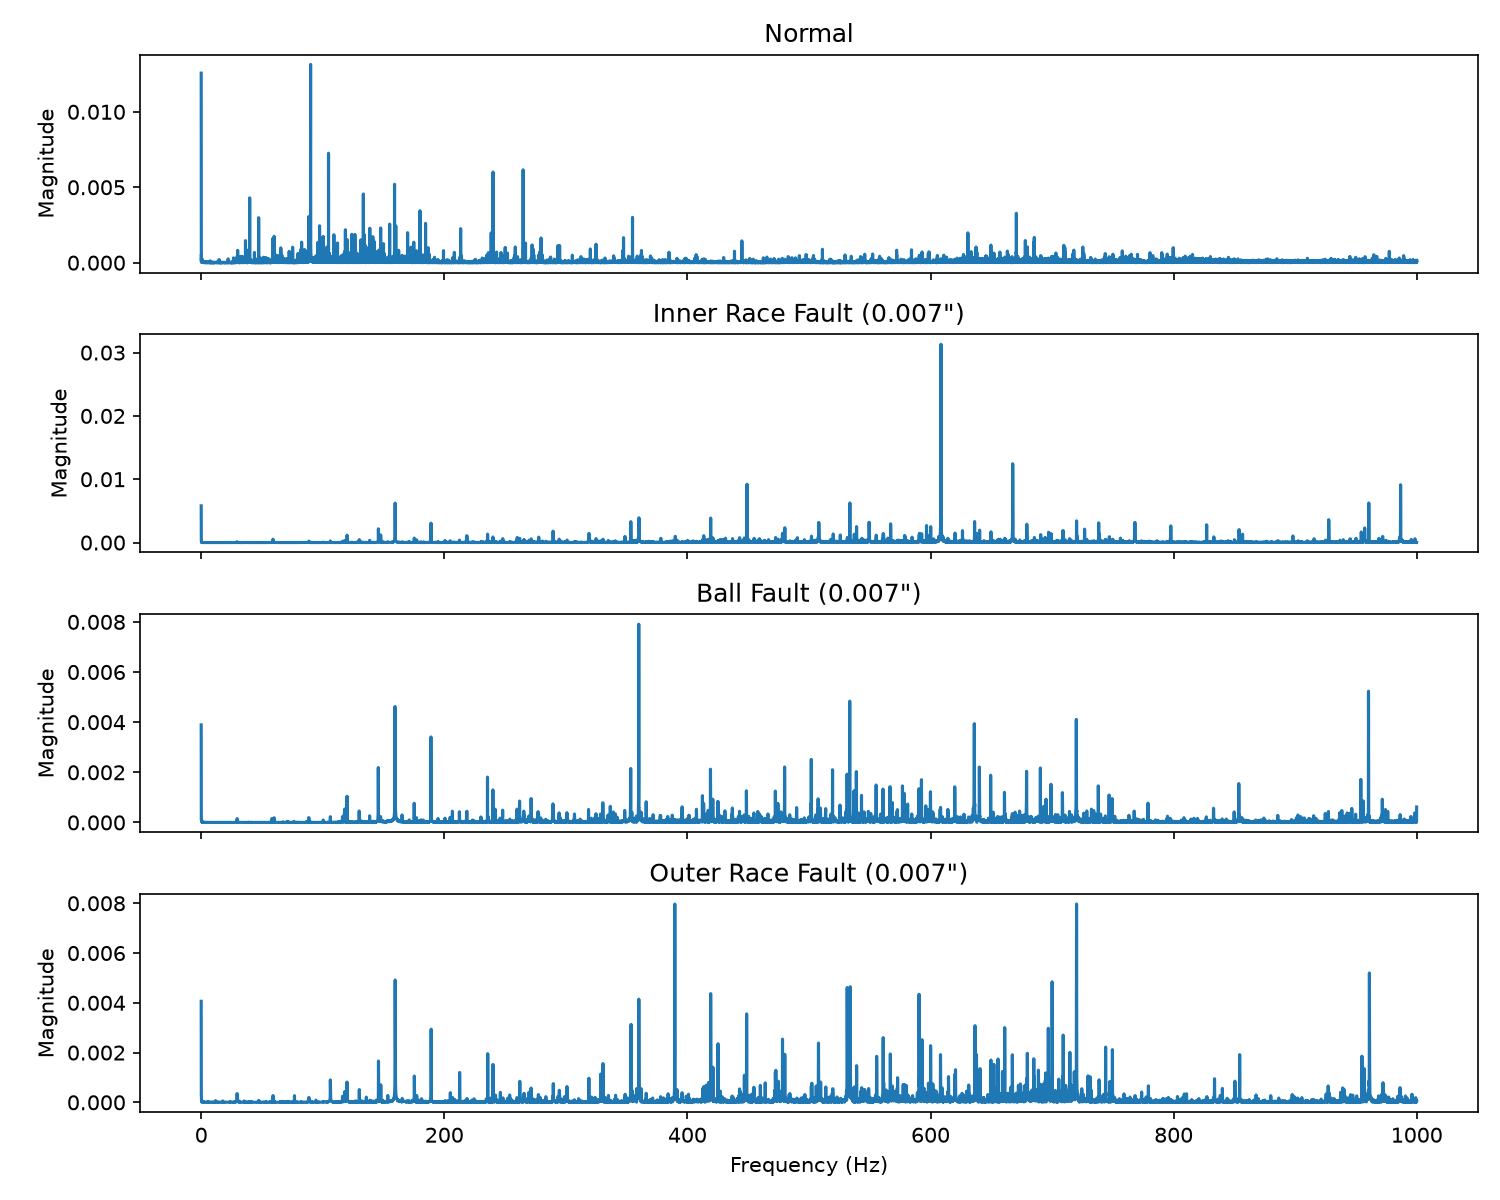
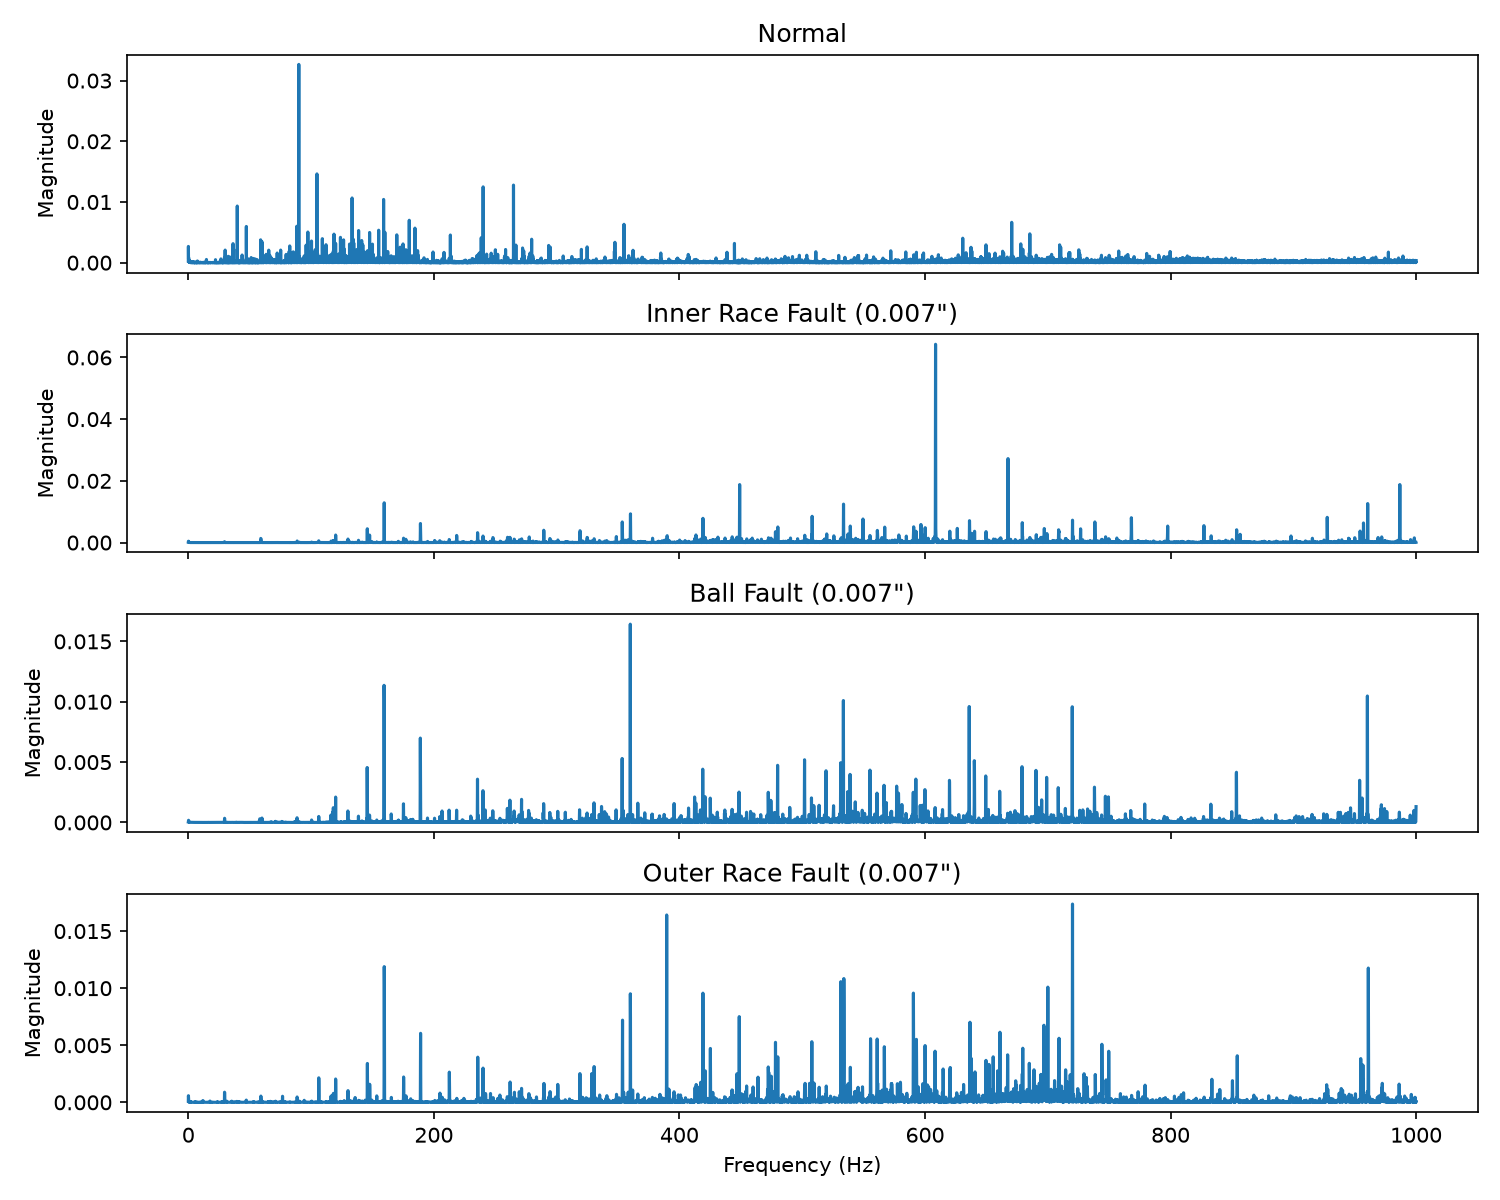
Improve FFT preprocessing and add tests

diff --git a/src/plot_fft.py b/src/plot_fft.py
@@ -1,8 +1,12 @@
+from pathlib import Path
+
 import numpy as np
 import matplotlib.pyplot as plt
-from data_loader import load_de_signal
+
+from .data_loader import load_de_signal
 
 SAMPLING_RATE = 12000  # Hz
+FIGURES_DIR = Path(__file__).resolve().parent.parent / "figures"
 
 FILES = {
     "Normal": "Normal_1hp.mat",
@@ -11,11 +15,37 @@ FILES = {
     "Outer Race Fault (0.007\")": "OR007_1hp.mat",
 }
 
-def compute_fft(signal, fs):
-    n = len(signal)
-    freqs = np.fft.rfftfreq(n, d=1/fs)
-    spectrum = np.abs(np.fft.rfft(signal)) / n
-    return freqs, spectrum
+def compute_fft(signal, sampling_rate):
+    """Return a one-sided, amplitude-corrected FFT spectrum."""
+    signal = np.asarray(signal, dtype=float)
+
+    if signal.ndim != 1 or signal.size < 2:
+        raise ValueError("signal must be one-dimensional with at least 2 samples")
+    if sampling_rate <= 0:
+        raise ValueError("sampling_rate must be positive")
+
+    number_of_samples = signal.size
+
+    # Remove the mean so it does not create a large peak at 0 Hz.
+    centered_signal = signal - np.mean(signal)
+
+    # Reduce spectral leakage when a frequency falls between FFT bins.
+    window = np.hanning(number_of_samples)
+    windowed_signal = centered_signal * window
+
+    frequencies = np.fft.rfftfreq(
+        number_of_samples,
+        d=1 / sampling_rate,
+    )
+    spectrum = np.abs(np.fft.rfft(windowed_signal)) / window.sum()
+
+    # Convert the positive-frequency half into a one-sided amplitude spectrum.
+    if number_of_samples % 2 == 0:
+        spectrum[1:-1] *= 2
+    else:
+        spectrum[1:] *= 2
+
+    return frequencies, spectrum
 
 def plot_ffts(max_freq=1000):
     fig, axes = plt.subplots(len(FILES), 1, figsize=(10, 8), sharex=True)
@@ -32,7 +62,8 @@ def plot_ffts(max_freq=1000):
     axes[-1].set_xlabel("Frequency (Hz)")
     plt.tight_layout()
 
-    output_path = "../figures/fft_comparison.png"
+    FIGURES_DIR.mkdir(parents=True, exist_ok=True)
+    output_path = FIGURES_DIR / "fft_comparison.png"
     plt.savefig(output_path, dpi=150)
     print(f"Saved plot to {output_path}")
     plt.show()

diff --git a/tests/test_fft.py b/tests/test_fft.py
@@ -1,0 +1,34 @@
+import unittest
+
+import numpy as np
+
+from src.plot_fft import compute_fft
+
+
+class TestFFT(unittest.TestCase):
+    def test_detects_known_sine_frequency_and_amplitude(self):
+        sampling_rate = 12000
+        expected_frequency = 160
+        time = np.arange(sampling_rate) / sampling_rate
+        signal = np.sin(2 * np.pi * expected_frequency * time)
+
+        frequencies, spectrum = compute_fft(signal, sampling_rate)
+        peak_index = np.argmax(spectrum)
+
+        self.assertAlmostEqual(
+            frequencies[peak_index],
+            expected_frequency,
+            places=2,
+        )
+        self.assertAlmostEqual(spectrum[peak_index], 1.0, places=3)
+
+    def test_removes_constant_dc_offset(self):
+        signal = np.full(12000, 5.0)
+
+        _, spectrum = compute_fft(signal, sampling_rate=12000)
+
+        self.assertTrue(np.allclose(spectrum, 0.0, atol=1e-12))
+
+
+if __name__ == "__main__":
+    unittest.main()

diff --git a/src/__init__.py b/src/__init__.py
@@ -1,0 +1,1 @@
+"""Bearing anomaly detection analysis package."""
